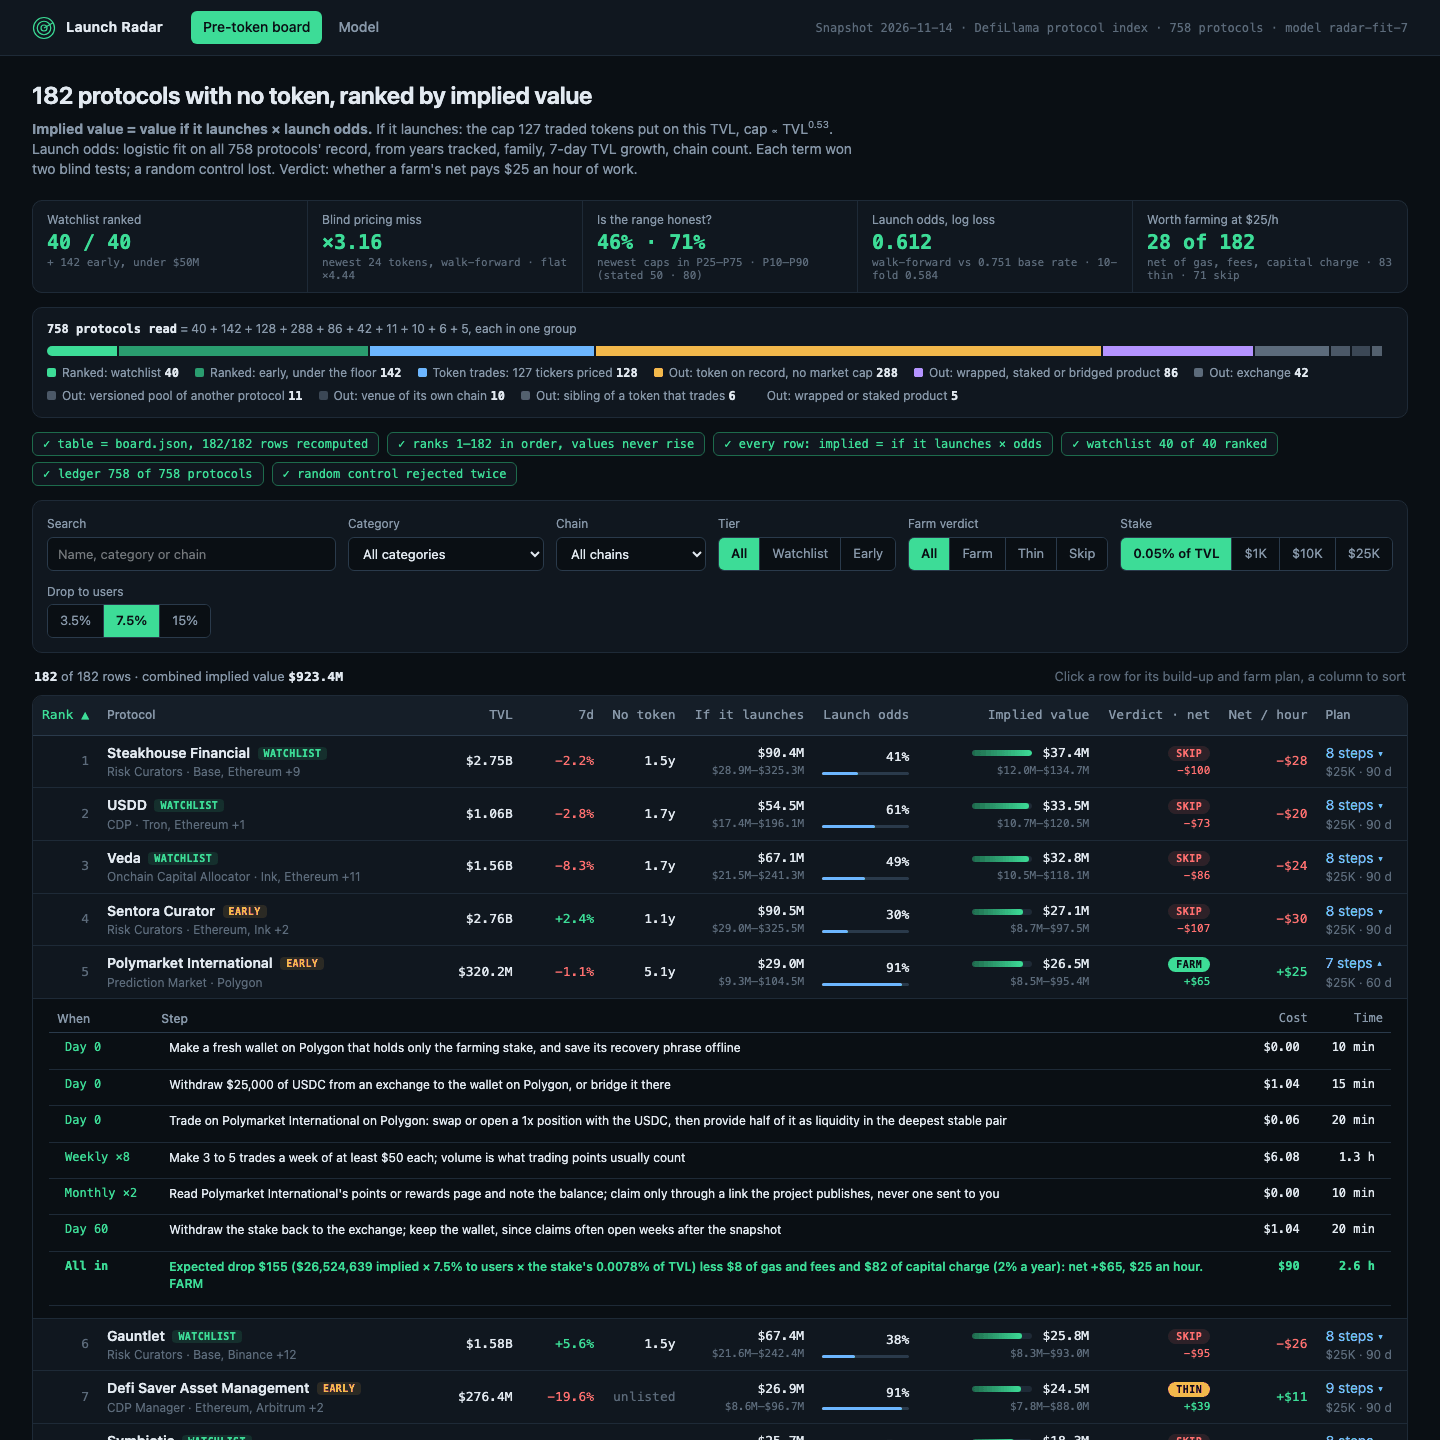
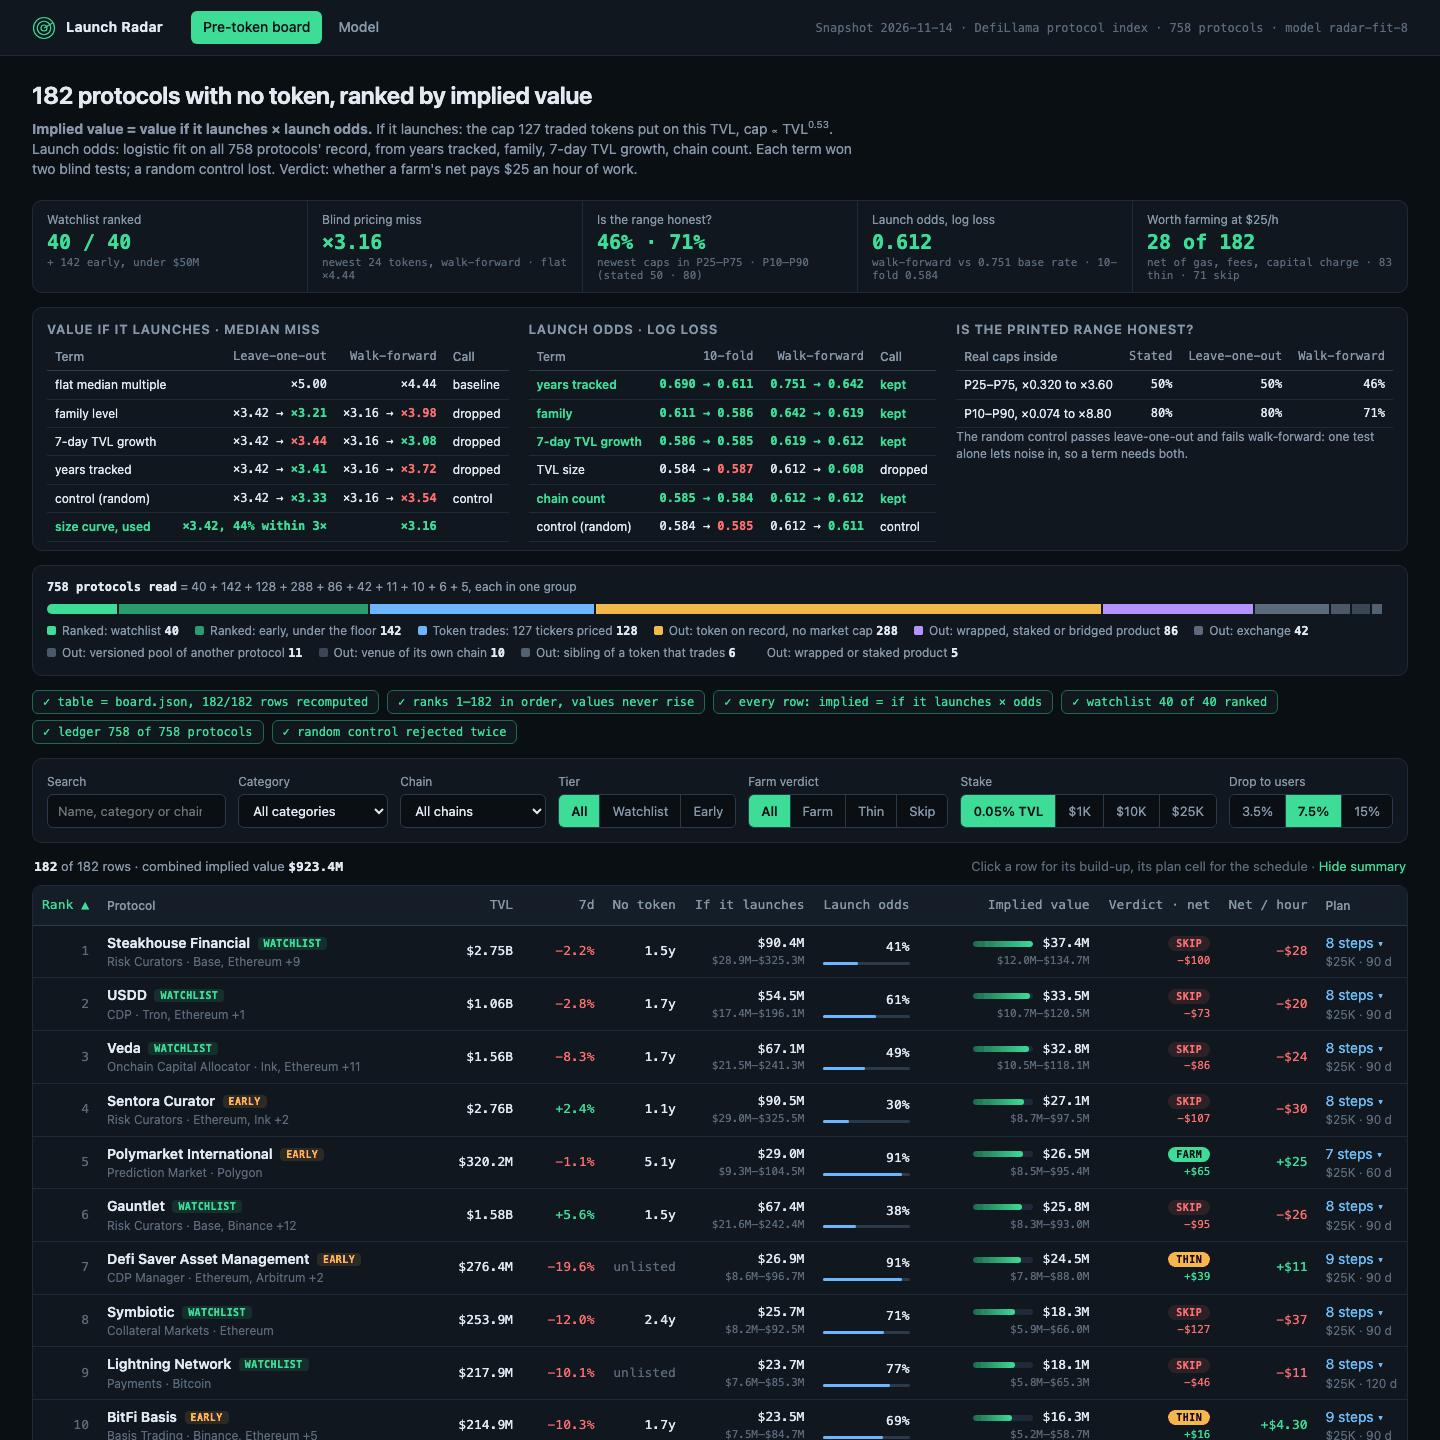
v8: held-out evidence tables on the board; one-line filters; summary toggle
- valueTable, oddsTable and rangeTable shared by the board and the Model tab
- Hide summary collapses the panels so a filtered view reaches the table
- Shorter labels; filters fit one row at 1440

diff --git a/dashboard/app.js b/dashboard/app.js
@@ -76,7 +76,7 @@ function ledger() {
 
 // --- state
 
-var DEFAULT = { q: '', cat: '', chain: '', tier: 'all', call: 'all', dep: 'plan', share: '7.5', open: '', sort: 'rank', dir: 'asc' };
+var DEFAULT = { q: '', cat: '', chain: '', tier: 'all', call: 'all', dep: 'plan', share: '7.5', open: '', sum: '1', sort: 'rank', dir: 'asc' };
 // The reader's farm scenario: stake and share of the token to users; null is the board's default.
 function scen(st) { return st.dep === 'plan' && st.share === '7.5' ? null : { stake: Number(st.dep) || 0, share: st.share / 100 }; }
 function cur(r) { var sc = scen(state); return sc ? M.farmPlan(r, r.implied_value_usd, sc) : r.plan; }
@@ -146,21 +146,22 @@ function renderBoard(st) {
   var h = F.held_out, fw = h.forward, O = R.odds;
   var html = '<section class="hero"><div><h1>' + rows.length + ' protocols with no token, ranked by implied value</h1>' +
     '<p class="lede"><b>Implied value = value if it launches × launch odds.</b> If it launches: the cap ' + F.tokens + ' traded tokens put on this TVL, cap ∝ TVL<sup>' + F.size_elasticity.toFixed(2) + '</sup>' + (F.terms.length ? ' × ' + F.terms.map(t => verdictOf(t).label).join(' × ') : '') + '. Launch odds: logistic fit on all ' + snap.protocols.length + ' protocols\' record, from ' + O.terms.map(t => O.selection.filter(v => v.term === t)[0].label).join(', ') + '. Each term won two blind tests; a random control lost. Verdict: whether a farm\'s net pays $' + M.CONST.hour_usd + ' an hour of work.</p></div></section>' +
-    '<dl class="kpis row"><div><dt>Watchlist ranked</dt><dd>' + watch + ' / ' + snap.watchlist.length + '</dd><small>+ ' + (rows.length - watch) + ' early, under $50M</small></div>' +
+    (st.sum === '0' ? '' : '<dl class="kpis row"><div><dt>Watchlist ranked</dt><dd>' + watch + ' / ' + snap.watchlist.length + '</dd><small>+ ' + (rows.length - watch) + ' early, under $50M</small></div>' +
     '<div><dt>Blind pricing miss</dt><dd>' + mult(fw.model) + '</dd><small>newest ' + fw.test + ' tokens, walk-forward · flat ' + mult(fw.flat) + '</small></div>' +
     '<div><dt>Is the range honest?</dt><dd>' + share(fw.in50) + ' · ' + share(fw.in80) + '</dd><small>newest caps in P25–P75 · P10–P90 (stated 50 · 80)</small></div>' +
     '<div><dt>Launch odds, log loss</dt><dd>' + O.wf.toFixed(3) + '</dd><small>walk-forward vs ' + O.base_wf.toFixed(3) + ' base rate · 10-fold ' + O.loss.toFixed(3) + '</small></div>' +
-    '<div><dt>Worth farming at $' + M.CONST.hour_usd + '/h</dt><dd>' + tally('farm') + ' of ' + rows.length + '</dd><small>net of gas, fees, capital charge · ' + tally('thin') + ' thin · ' + tally('skip') + ' skip</small></div></dl>' + ledger() + integrity();
+    '<div><dt>Worth farming at $' + M.CONST.hour_usd + '/h</dt><dd>' + tally('farm') + ' of ' + rows.length + '</dd><small>net of gas, fees, capital charge · ' + tally('thin') + ' thin · ' + tally('skip') + ' skip</small></div></dl>' +
+    '<section class="evid"><div><h3>Value if it launches · median miss</h3>' + valueTable() + '</div><div><h3>Launch odds · log loss</h3>' + oddsTable() + '</div><div><h3>Is the printed range honest?</h3>' + rangeTable() + '<p class="note">' + controlNote() + '</p></div></section>' + ledger() + integrity());
   html += '<form class="filters" id="filters" onsubmit="return false">' +
     '<label class="grow">Search<input name="q" type="search" placeholder="Name, category or chain" value="' + esc(st.q) + '"></label>' +
     '<label>Category<select name="cat">' + options(countBy('category'), st.cat, 'All categories') + '</select></label>' +
     '<label>Chain<select name="chain">' + options(countBy('chains'), st.chain, 'All chains') + '</select></label>' +
     '<div class="field"><span>Tier</span>' + seg('tier', st.tier, [['all', 'All'], ['watchlist', 'Watchlist'], ['early', 'Early']]) + '</div>' +
     '<div class="field"><span>Farm verdict</span>' + seg('call', st.call, [['all', 'All'], ['farm', 'Farm'], ['thin', 'Thin'], ['skip', 'Skip']]) + '</div>' +
-    '<div class="field"><span>Stake</span>' + seg('dep', st.dep, [['plan', '0.05% of TVL'], ['1000', '$1K'], ['10000', '$10K'], ['25000', '$25K']]) + '</div>' +
+    '<div class="field"><span>Stake</span>' + seg('dep', st.dep, [['plan', '0.05% TVL'], ['1000', '$1K'], ['10000', '$10K'], ['25000', '$25K']]) + '</div>' +
     '<div class="field"><span>Drop to users</span>' + seg('share', st.share, [['3.5', '3.5%'], ['7.5', '7.5%'], ['15', '15%']]) + '</div></form>';
   html += '<div class="summary"><span><b>' + list.length + '</b> of ' + rows.length + ' rows' + (active ? ' match the filters' : '') + ' · combined implied value <b>' + money(total) + '</b></span>' +
-    (active ? '<a href="#board" class="reset">Clear filters</a>' : '<span class="dim">Click a row for its build-up and farm plan, a column to sort</span>') + '</div>';
+    '<span>' + (active ? '<a href="#board" class="reset">Clear filters</a> · ' : '<span class="dim">Click a row for its build-up, its plan cell for the schedule · </span>') + '<a href="' + hashOf(Object.assign({}, st, { sum: st.sum === '0' ? '1' : '0' })) + '">' + (st.sum === '0' ? 'Show' : 'Hide') + ' summary</a></span></div>';
   html += '<div class="table-wrap"><table class="board"><thead><tr>' + COLS.map(c => {
     var on = st.sort === c.key;
     return '<th class="' + (c.num ? 'num ' : '') + (on ? 'sorted' : '') + '" data-sort="' + c.key + '">' + c.label + (on ? (st.dir === 'asc' ? ' ▲' : ' ▼') : '') + '</th>';
@@ -254,23 +255,37 @@ function renderDetail(slug) {
 
 // --- model
 
-function call(v) { return '<td>' + (v.kept ? 'kept' : v.term === 'control' ? 'control, never kept' : 'dropped') + '</td>'; }
+function call(v) { return '<td>' + (v.kept ? 'kept' : v.term === 'control' ? 'control' : 'dropped') + '</td>'; }
 function arrow(a, b, f) { return num(f(a) + ' → <b class="' + (b < a ? 'up' : 'down') + '">' + f(b) + '</b>'); }
 function fixed3(x) { return x.toFixed(3); }
 
-function renderModel() {
-  var C = M.CONST, h = F.held_out, fw = h.forward, O = R.odds, ctl = verdictOf('control');
-  var html = '<section class="hero"><div><h1>The model: ' + esc(M.VERSION) + '</h1><p class="lede">model.js fits and scores everything from the snapshot\'s own figures (TVL, 7-day growth, years with no token, category, chains), no list of names. main.ts runs it for board.json; this page re-runs it and checks every row.</p></div></section>';
-  html += '<div class="grid2"><section class="card"><h3>Value if it launches: every term on two blind tests</h3><p class="note">Leave-one-out prices each of ' + F.tokens + ' traded tokens unseen; walk-forward fits the ' + fw.train + ' listed first and prices the ' + fw.test + ' listed since ' + esc(fw.from) + '. A term stays if it cuts the leave-one-out median miss by ' + share(C.keep_gain) + ' and walk-forward does not rise:</p><table class="mini"><thead><tr><th>Term</th><th class="num">Leave-one-out</th><th class="num">Walk-forward</th><th>Call</th></tr></thead><tbody>' +
-    '<tr><td>flat multiple, median cap ÷ TVL</td>' + num(mult(h.flat)) + num(mult(fw.flat)) + '<td>baseline</td></tr>' +
-    F.selection.map(v => '<tr' + (v.kept ? ' class="used"' : '') + '><td>' + esc(v.label) + '</td>' + arrow(v.without, v.with, mult) + arrow(v.wf_without, v.wf_with, mult) + call(v) + '</tr>').join('') + '<tr class="used"><td>size curve' + F.terms.map(t => ' + ' + verdictOf(t).label).join('') + ', used</td>' + num(mult(h.model) + ', ' + share(h.model_within3) + ' within 3×') + num(mult(fw.model)) + '<td></td></tr></tbody></table>' +
-    '<p class="note">The random control ' + (ctl.with < ctl.without ? 'passes leave-one-out and' : '') + ' fails walk-forward: one test alone lets noise in, so a term needs both. Family and age fail forward in time; they reach the board through the odds.</p>' +
-    '<h3>Is the printed range honest?</h3><table class="mini"><thead><tr><th>Real caps inside</th><th class="num">Stated</th><th class="num">Leave-one-out</th><th class="num">Walk-forward</th></tr></thead><tbody>' +
+// The three held-out tables, shown on the board and the Model tab alike.
+function valueTable() {
+  var h = F.held_out, fw = h.forward;
+  return '<table class="mini"><thead><tr><th>Term</th><th class="num">Leave-one-out</th><th class="num">Walk-forward</th><th>Call</th></tr></thead><tbody>' +
+    '<tr><td>flat median multiple</td>' + num(mult(h.flat)) + num(mult(fw.flat)) + '<td>baseline</td></tr>' +
+    F.selection.map(v => '<tr' + (v.kept ? ' class="used"' : '') + '><td>' + esc(v.label) + '</td>' + arrow(v.without, v.with, mult) + arrow(v.wf_without, v.wf_with, mult) + call(v) + '</tr>').join('') + '<tr class="used"><td>size curve' + F.terms.map(t => ' + ' + verdictOf(t).label).join('') + ', used</td>' + num(mult(h.model) + ', ' + share(h.model_within3) + ' within 3×') + num(mult(fw.model)) + '<td></td></tr></tbody></table>';
+}
+function rangeTable() {
+  var h = F.held_out, fw = h.forward;
+  return '<table class="mini"><thead><tr><th>Real caps inside</th><th class="num">Stated</th><th class="num">Leave-one-out</th><th class="num">Walk-forward</th></tr></thead><tbody>' +
     '<tr><td>P25–P75, ' + mult(Math.exp(F.q[1])) + ' to ' + mult(Math.exp(F.q[2])) + '</td>' + num('50%') + num(share(h.in50)) + num(share(fw.in50)) + '</tr>' +
-    '<tr><td>P10–P90, ' + mult(Math.exp(F.q[0])) + ' to ' + mult(Math.exp(F.q[3])) + '</td>' + num('80%') + num(share(h.in80)) + num(share(fw.in80)) + '</tr></tbody></table>' +
+    '<tr><td>P10–P90, ' + mult(Math.exp(F.q[0])) + ' to ' + mult(Math.exp(F.q[3])) + '</td>' + num('80%') + num(share(h.in80)) + num(share(fw.in80)) + '</tr></tbody></table>';
+}
+function oddsTable() {
+  return '<table class="mini"><thead><tr><th>Term</th><th class="num">10-fold</th><th class="num">Walk-forward</th><th>Call</th></tr></thead><tbody>' +
+    R.odds.selection.map(v => '<tr' + (v.kept ? ' class="used"' : '') + '><td>' + esc(v.label) + '</td>' + arrow(v.without, v.with, fixed3) + arrow(v.wf_without, v.wf_with, fixed3) + call(v) + '</tr>').join('') + '</tbody></table>';
+}
+function controlNote() { var c = verdictOf('control'); return 'The random control ' + (c.with < c.without ? 'passes leave-one-out and' : '') + ' fails walk-forward: one test alone lets noise in, so a term needs both.'; }
+
+function renderModel() {
+  var C = M.CONST, fw = F.held_out.forward, O = R.odds;
+  var html = '<section class="hero"><div><h1>The model: ' + esc(M.VERSION) + '</h1><p class="lede">model.js fits and scores everything from the snapshot\'s own figures (TVL, 7-day growth, years with no token, category, chains), no list of names. main.ts runs it for board.json; this page re-runs it and checks every row.</p></div></section>';
+  html += '<div class="grid2"><section class="card"><h3>Value if it launches: every term on two blind tests</h3><p class="note">Leave-one-out prices each of ' + F.tokens + ' traded tokens unseen; walk-forward fits the ' + fw.train + ' listed first and prices the ' + fw.test + ' listed since ' + esc(fw.from) + '. A term stays if it cuts the leave-one-out median miss by ' + share(C.keep_gain) + ' and walk-forward does not rise:</p>' + valueTable() +
+    '<p class="note">' + controlNote() + ' Family and age fail forward in time; they reach the board through the odds.</p>' +
+    '<h3>Is the printed range honest?</h3>' + rangeTable() +
     '<p class="note">Ranges: quantiles of the signed held-out misses. Walk-forward re-runs the whole procedure, ranges included, on the older tokens.</p><h3>Formula</h3><pre>if it launches = e^' + F.intercept.toFixed(3) + ' × (TVL ÷ e^' + M.CONST.size_center + ')^' + F.size_elasticity.toFixed(3) + F.terms.map(t => ' × ' + verdictOf(t).label).join('') + '\nlaunch odds    = 1 ÷ (1 + e^−(w · x)), w:\n  ' + O.cols.map((c, i) => c + ' ' + O.weights[i].toFixed(3)).join(', ').replace(/(([^,]*,){4})/g, '$1\n ') + '\nimplied value  = if it launches × launch odds</pre></section>' +
-    '<section class="card"><h3>Launch odds: every term on two blind tests</h3><p class="note">Logistic fit on whether each of ' + snap.protocols.length + ' protocols records a token (' + share(O.base) + ' do). A term stays if it lowers held-out log loss on both tests:</p><table class="mini"><thead><tr><th>Term</th><th class="num">10-fold</th><th class="num">Walk-forward</th><th>Call</th></tr></thead><tbody>' +
-    O.selection.map(v => '<tr' + (v.kept ? ' class="used"' : '') + '><td>' + esc(v.label) + '</td>' + arrow(v.without, v.with, fixed3) + arrow(v.wf_without, v.wf_with, fixed3) + call(v) + '</tr>').join('') + '</tbody></table>' +
+    '<section class="card"><h3>Launch odds: every term on two blind tests</h3><p class="note">Logistic fit on whether each of ' + snap.protocols.length + ' protocols records a token (' + share(O.base) + ' do). A term stays if it lowers held-out log loss on both tests:</p>' + oddsTable() +
     '<p class="note">Brier score ' + O.base_brier.toFixed(3) + ' → ' + O.brier.toFixed(3) + ' on 10-fold, ' + O.base_wf_brier.toFixed(3) + ' → ' + O.wf_brier.toFixed(3) + ' walk-forward. Odds are not a date.</p>' +
     '<h3>Launch odds, calibrated held-out</h3><table class="mini"><thead><tr><th>Held-out odds</th><th class="num">Protocols</th><th class="num">Mean odds</th><th class="num">Record a token</th></tr></thead><tbody>' +
     O.calibration.map((c, i) => '<tr><td>' + share(i / 4) + '–' + share(c.hi) + '</td>' + num(c.n) + num(share(c.odds)) + num(share(c.share)) + '</tr>').join('') + '</tbody></table>' +

diff --git a/dashboard/model.js b/dashboard/model.js
@@ -114,7 +114,7 @@ var TERMS = {
   family: { label: 'family level', cols: FAMS.slice(), x: t => { var f = familyOf(t.category); return FAMS.map(n => f === n ? 1 : 0); } },
   growth: { label: '7-day TVL growth', cols: ['growth'], x: t => [growthX(t.change_7d)] },
   age: { label: 'years tracked', cols: ['age'], x: t => [t.age_days === null ? 0 : Math.min(6, t.age_days / 365) - CONST.age_center_years] },
-  control: { label: 'control: a random number', cols: ['control'], x: t => [noise(t.slug)] }
+  control: { label: 'control (random)', cols: ['control'], x: t => [noise(t.slug)] }
 };
 var CANDIDATES = ['family', 'growth', 'age', 'control'];
 function growthX(g) { return Math.tanh(clamp(g === null ? 0 : g, CONST.growth_floor, CONST.growth_cap) / 30); }
@@ -241,7 +241,7 @@ var ODDS_X = {
   growth: { label: '7-day TVL growth', cols: ['tanh(7d % ÷ 30)'], x: p => [growthX(p.change_7d)] },
   size: { label: 'TVL size', cols: ['ln TVL'], x: p => [Math.log(p.tvl_usd) - CONST.size_center] },
   chains: { label: 'chain count', cols: ['ln chains'], x: p => [Math.log(Math.max(1, p.chains.length))] },
-  control: { label: 'control: a random number', cols: ['noise'], x: p => [noise(p.slug)] }
+  control: { label: 'control (random)', cols: ['noise'], x: p => [noise(p.slug)] }
 };
 function sigmoid(z) { return 1 / (1 + Math.exp(-z)); }
 function oddsX(q, terms) { var x = [1]; terms.forEach(t => { x.push.apply(x, ODDS_X[t].x(q.p, q.a)); }); return x; }
@@ -425,6 +425,6 @@ function build(snapshot) {
   return { rows: rows, live: live, aside: aside, fit: fit, odds: odds, constants: CONST, protocols: protocols.length };
 }
 
-var api = { build: build, farmPlan: farmPlan, dur: dur, liveTokens: liveTokens, fitValue: fitValue, tokenStatus: tokenStatus, familyOf: familyOf, CONST: CONST, VERSION: 'radar-fit-7' };
+var api = { build: build, farmPlan: farmPlan, dur: dur, liveTokens: liveTokens, fitValue: fitValue, tokenStatus: tokenStatus, familyOf: familyOf, CONST: CONST, VERSION: 'radar-fit-8' };
 if (typeof module !== 'undefined' && module.exports) module.exports = api; else root.RadarModel = api;
 })(this);

diff --git a/dashboard/app.css b/dashboard/app.css
@@ -63,9 +63,9 @@ sup{font-size:.7em}
 .strip li.bad{color:var(--red);border-color:var(--red)}
 .filters{display:flex;flex-wrap:wrap;gap:12px;align-items:end;padding:14px;background:var(--panel);border:1px solid var(--line);border-radius:10px}
 .filters label, .field{display:flex;flex-direction:column;gap:4px;color:var(--muted);font-size:12px}
-.filters .grow{flex:1 1 220px}
+.filters .grow{flex:1 1 140px}
 input, select{background:var(--bg);color:var(--text);border:1px solid var(--line-2);border-radius:6px;height:34px;padding:0 10px;font:inherit;font-size:13px}
-select{min-width:150px}
+select{min-width:110px;max-width:150px}
 input:focus, select:focus{outline:2px solid var(--green-dim);border-color:var(--green)}
 .seg{display:flex;border:1px solid var(--line-2);border-radius:6px;overflow:hidden;height:34px}
 .seg button{background:var(--bg);color:var(--muted);border:0;padding:0 12px;font:inherit;font-size:13px;cursor:pointer}
@@ -141,8 +141,12 @@ tr.used td{color:var(--green);font-weight:600}
 tr.open td{background:var(--bg);padding:6px 16px 12px;cursor:default}
 td.pc{white-space:nowrap;color:var(--blue)}
 
+.evid{display:grid;grid-template-columns:1fr 1fr 1fr;gap:20px;margin:0 0 14px;padding:0 14px 8px;background:var(--panel);border:1px solid var(--line);border-radius:10px}
+.evid h3{margin:12px 0 4px}
+.evid td{white-space:nowrap}
+
 @media (max-width: 900px) {
-  .grid2{grid-template-columns:1fr}
+  .grid2, .evid{grid-template-columns:1fr}
   .kpis.row{grid-template-columns:1fr 1fr}
   .meta{display:none}
   .dhead, .detail{grid-template-columns:1fr}

diff --git a/README.md b/README.md
@@ -12,7 +12,7 @@ Launch Radar ranks the DefiLlama protocols that record no token by what a launch
 
 **Launch odds** are a ridge logistic regression on whether each of the 758 protocols records a token today, with terms chosen the same way: kept only if they lower the held-out log loss on 10-fold and on walk-forward. Years tracked, family, 7-day TVL growth and chain count are kept; TVL size and the control are not. Log loss falls from 0.690 to 0.584 (10-fold) and 0.751 to 0.612 (walk-forward), and protocols grouped by held-out odds record a token at close to the predicted rate (20%, 39%, 63%, 84% predicted against 24%, 37%, 61%, 86% seen). So the brief's three figures all reach the value: TVL through the size curve, growth and time with no token through the odds. **Farm plans** are dated schedules (Day 0, Weekly x N, Monthly x N, the exit day), each step with its cost in gas and fees and its time in minutes, summed in an All-in row. The stake is 0.05% of TVL, kept between $1K and $25K, on the protocol's cheapest chain. Expected drop = implied value (odds included) x 7.5% to users x the stake's share of TVL; net = drop - gas and fees - a 2%-a-year capital charge on the stake; farm when the net pays $25 an hour of the plan's work, thin when it is above zero, skip otherwise (28 farm, 83 thin, 71 skip). The board lets a reader change the stake ($1K, $10K, $25K) and the share to users (3.5%, 7.5%, 15%) and recomputes every plan; any row's schedule opens in place.
 
-**The board** shows each row's net and net per hour, and covers the 40-protocol watchlist and holds the protocols below the $50M floor to the house's own rule: no wrapped, staked, bridged, versioned or exchange products, no sibling of a token that trades (GMX Solana beside GMX), and no venue of its own chain (Stellar AMM on Stellar). Watchlist protocols caught by those rules stay on the board, tagged. A ledger puts every one of the 758 protocols in one group, and the page re-runs the model and checks itself on screen: every row recomputed to the dollar of board.json, rank order, implied = if it launches x odds, watchlist coverage, and the control rejected by both models.
+**The board** opens on the held-out evidence itself (both models' term tables and the range check, the same tables as the Model tab, with a Hide summary switch), shows each row's net and net per hour, and covers the 40-protocol watchlist and holds the protocols below the $50M floor to the house's own rule: no wrapped, staked, bridged, versioned or exchange products, no sibling of a token that trades (GMX Solana beside GMX), and no venue of its own chain (Stellar AMM on Stellar). Watchlist protocols caught by those rules stay on the board, tagged. A ledger puts every one of the 758 protocols in one group, and the page re-runs the model and checks itself on screen: every row recomputed to the dollar of board.json, rank order, implied = if it launches x odds, watchlist coverage, and the control rejected by both models.
 
 ## Run it
 
